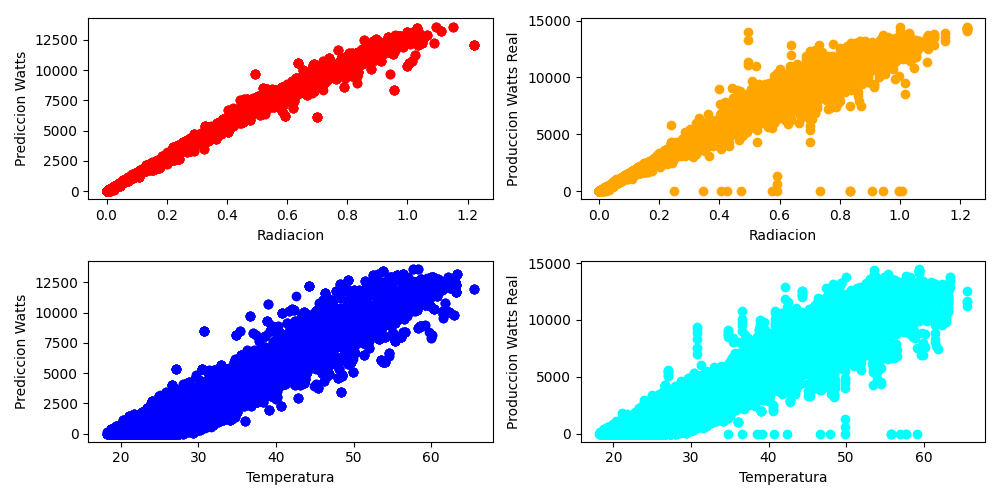
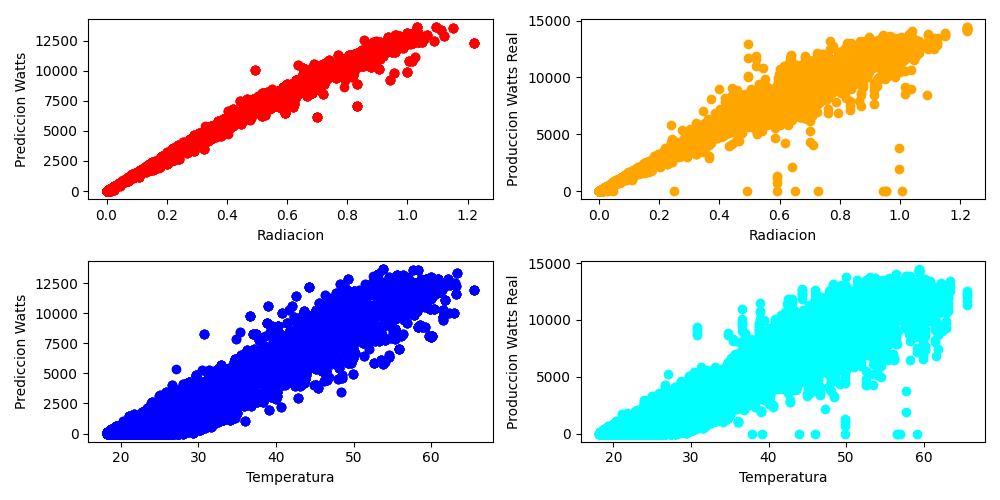
F1 en kmeans e IsolationForest

diff --git a/src/main14.py b/src/main14.py
@@ -13,8 +13,7 @@ from sklearn.linear_model import LinearRegression
 from sklearn.pipeline import make_pipeline
 from cross_validation import cross_validation_regression
 from sklearn.cluster import KMeans
-from sklearn.metrics import confusion_matrix
-
+from sklearn.metrics import confusion_matrix, f1_score
 from sklearn.decomposition import PCA
 
 # AutoEncoder
@@ -54,14 +53,35 @@ def graficarAnomalias(data, outliers):
 
 def isolationForest(df):
     X_scaled = StandardScaler().fit_transform(df)
-    model = IsolationForest(contamination=0.02)
+    model = IsolationForest(contamination=0.01) #contamination 1%
     model.fit(X_scaled)
     outliers = model.predict(X_scaled)
-    graficarAnomalias(df, outliers)    
+    graficarAnomalias(df, outliers)
+    # Nos inventamos un 1% de datos anomalos y vemos si los clasifica bien
+    # 68774 FILAS ten o dataframe total, 687 FILAS ten o dataframe anomalo
+    filasDf = df.shape[0]
+    num_anomalias = round(filasDf * 0.01)
+    f1_results = []
+    for i in range(10):
+        dfanomalo = pd.DataFrame({'DC_POWER':np.random.randint(0.0,28,size=num_anomalias),
+                    'MODULE_TEMPERATURE':np.random.randint(0.0,56,size=num_anomalias),
+                    'IRRADIATION':np.random.randint(0.0,171,size=num_anomalias)})
+        
+        Y = np.concatenate([np.zeros(filasDf, dtype=int), np.ones(num_anomalias, dtype=int)])
+        df_train = StandardScaler().fit_transform(pd.concat([df, dfanomalo], ignore_index=True))
+        model.fit(df_train); Y_pred = model.predict(df_train)
+        Y_pred[Y_pred == 1] = 0; Y_pred[Y_pred == -1] = 1
+        f1_results.append(f1_score(Y, Y_pred))
 
-def kmeans(df, n_clusters):
+    f1_results = np.array(f1_results)
+    mean = np.mean(f1_results); std = np.std(f1_results)
+    print("media F1: " + str(mean) + " std: " + str(std))
+
+
+
+def kmeans(df):
     X_scaled = StandardScaler().fit_transform(df)
-    model = KMeans(n_clusters=n_clusters)
+    model = KMeans(n_clusters=Config.n_clusters)
     model.fit(X_scaled)
     cluster_labels = model.predict(X_scaled)
     cluster_centers = model.cluster_centers_
@@ -72,6 +92,8 @@ def kmeans(df, n_clusters):
 
     anomalies = [X_scaled[i] for i, distance in enumerate(distances) if distance > threshold_distance]
     anomalies = np.asarray(anomalies, dtype=np.float32)
+
+
 
     colors = cm.nipy_spectral(cluster_labels.astype(float) / 3)
     plt.figure(figsize=(12, 5))
@@ -86,9 +108,40 @@ def kmeans(df, n_clusters):
     plt.tight_layout()
     plt.show()
 
+    #Y = np.array(np.where((distances > threshold_distance), 1, 0))
+    #anomalies2 = np.array(anomalies2)
+    
+    filasDf = df.shape[0]
+    #print(" Forma das anomalias " + str(anomalies2.shape) + " Primeros 10 elementos: " + str(anomalies2[-10:]))ape[0]
+    num_anomalias = round(filasDf * 0.01)
+    f1_results = []
+    for i in range(10):
+        dfanomalo = pd.DataFrame({'DC_POWER':np.random.randint(0.0,28,size=num_anomalias),
+                    'MODULE_TEMPERATURE':np.random.randint(0.0,56,size=num_anomalias),
+                    'IRRADIATION':np.random.randint(0.0,171,size=num_anomalias)})
+        
+        Y = np.concatenate([np.zeros(filasDf, dtype=int), np.ones(num_anomalias, dtype=int)])
+        df_train = StandardScaler().fit_transform(pd.concat([df, dfanomalo], ignore_index=True))
+        model.fit(df_train)
+        cluster_labels = model.predict(df_train)
+        cluster_centers = model.cluster_centers_
+        distances = [np.linalg.norm(x - cluster_centers[cluster]) for x, cluster in zip(df_train, cluster_labels)]
+        threshold_distance = np.percentile(distances, percentile_threshold)
+        #Y_pred = model.predict(df_train)
+        Y_pred = np.array(np.where((distances > threshold_distance), 1, 0))
+        #Y_pred[Y_pred == 1] = 0; Y_pred[Y_pred == -1] = 1
+        f1_results.append(f1_score(Y, Y_pred))
 
-def autoEncoder(data):
-    x_train, x_test, y_train, y_test = train_test_split(data[['IRRADIATION', 'MODULE_TEMPERATURE']].to_numpy(), data[['DC_POWER']].to_numpy(), test_size=0.2, random_state=111)
+    #print(" Forma das anomalias " + str(Y[-10:]) + " Primeros 10 elementos: " + str(Y_pred[-10:]))
+    f1_results = np.array(f1_results)
+    print(f1_results)
+    mean = np.mean(f1_results); std = np.std(f1_results)
+    print("media F1: " + str(mean) + " std: " + str(std))
+
+
+
+def autoEncoder(df):
+    x_train, x_test, y_train, y_test = train_test_split(df[['IRRADIATION', 'MODULE_TEMPERATURE']].to_numpy(), df[['DC_POWER']].to_numpy(), test_size=0.2, random_state=111)
     scaler = StandardScaler()
     X_train_scaled = scaler.fit_transform(x_train)
     X_test_scaled = scaler.fit_transform(x_test)
@@ -127,6 +180,26 @@ def autoEncoder(data):
     plt.legend(["Entrenamiento", "Test", "Umbral"], loc="upper left")
     plt.show()
 
+    # COmo faso
+
+    filasDf = df.shape[0]
+    num_anomalias = round(filasDf * 0.01)
+    f1_results = []
+    for i in range(10):
+        dfanomalo = pd.DataFrame({'DC_POWER':np.random.randint(0.0,28,size=num_anomalias),
+                    'MODULE_TEMPERATURE':np.random.randint(0.0,56,size=num_anomalias),
+                    'IRRADIATION':np.random.randint(0.0,171,size=num_anomalias)})
+        
+        Y = np.concatenate([np.zeros(filasDf, dtype=int), np.ones(num_anomalias, dtype=int)])
+        df_train = StandardScaler().fit_transform(pd.concat([df, dfanomalo], ignore_index=True))
+        model.fit(df_train); Y_pred = model.predict(df_train)
+        Y_pred[Y_pred == 1] = 0; Y_pred[Y_pred == -1] = 1
+        f1_results.append(f1_score(Y, Y_pred))
+
+    f1_results = np.array(f1_results)
+    mean = np.mean(f1_results); std = np.std(f1_results)
+    print("media F1: " + str(mean) + " std: " + str(std))
+
 
 def adestrarMetodo(df, model, nome, depVars, indepVars):
     X = df[indepVars]; Y = df[depVars]
@@ -153,18 +226,19 @@ if __name__ == "__main__":
     # 1: Estudo do conxunto de datos
 
     #graficarRelacionVariables()
+
     df = process_df()
-    print(df)
+
     # 2: Tecnicas de deteccion de anomalias
 
-    isolationForest(df)
-    kmeans(df, Config.n_clusters)
+    #isolationForest(df)
+    #kmeans(df)
     autoEncoder(df)
     
 
     # 3: Modelos de regresion
     
-
+    """
 
     methods = []
     methods.append(("linealRegression", make_pipeline(StandardScaler(), LinearRegression())))
@@ -186,3 +260,4 @@ if __name__ == "__main__":
 
     for method in methods:
         adestrarMetodo(df, method[1], method[0], Config.depVars, Config.indepVars)
+    """
